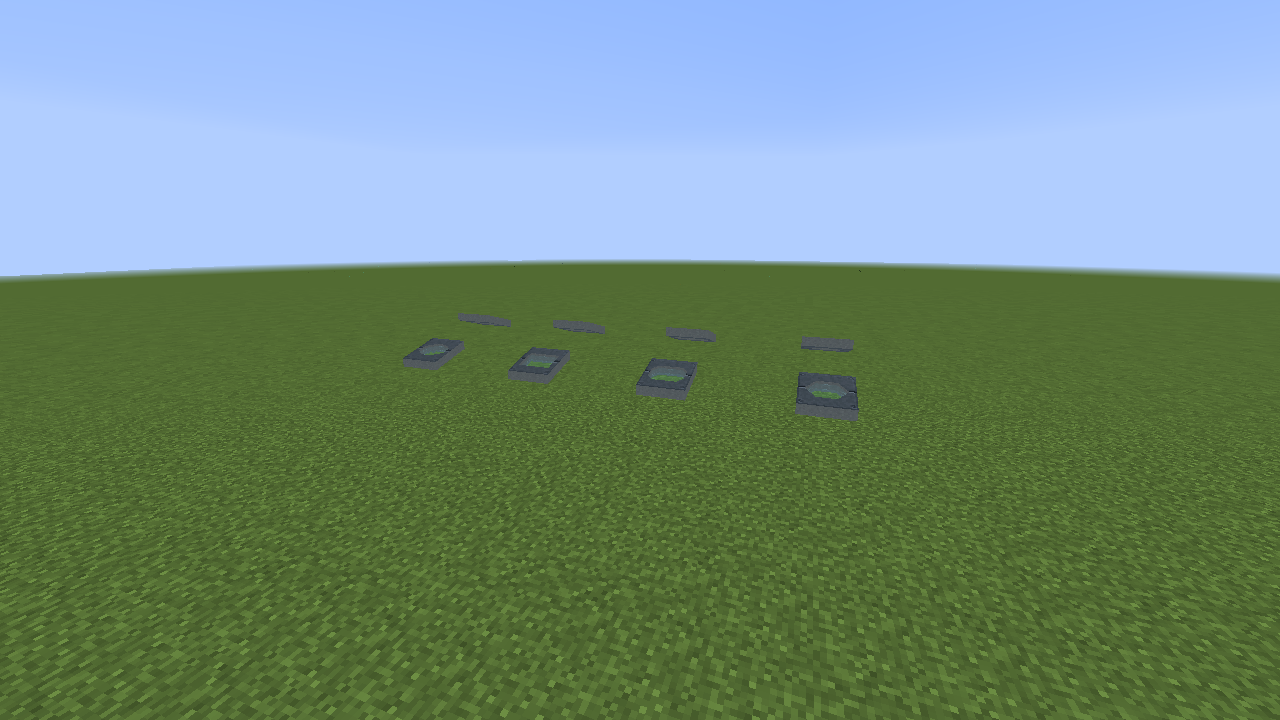
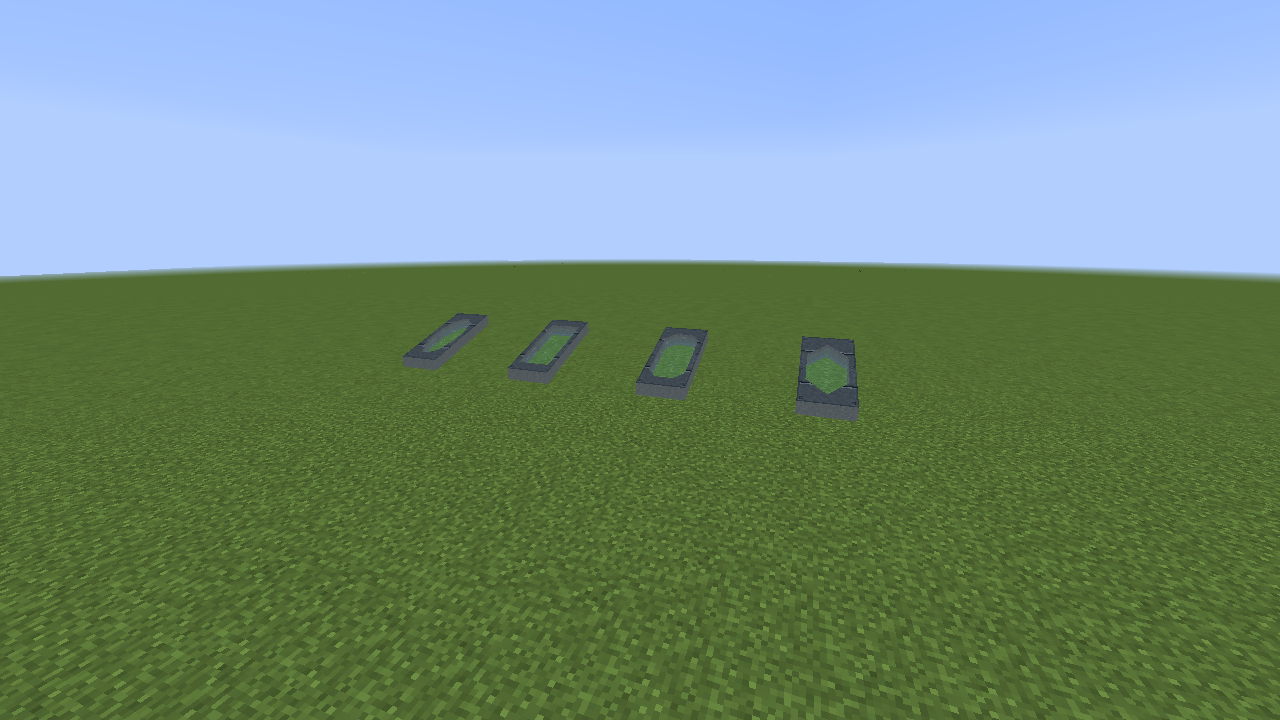
Document edge placement and illustrate shallow porthole joining

diff --git a/testclient/export_gallery.py b/testclient/export_gallery.py
@@ -79,7 +79,7 @@ SHOTS.update({
 
 for name in ("faces", "seating", "seating_heights", "seating_unjoined", "gear", "gear_extended", "gear_four", "gear_half", "gear_retracted", "portholes",
              "half_height", "fill", "half_console", "controller", "stairs",
-             "portholes_stacked", "portholes_half_height", "filled_corners_inside", "filled_corners_outside"):
+             "portholes_stacked", "portholes_half_height", "portholes_half_height_unjoined", "filled_corners_inside", "filled_corners_outside"):
     SHOTS[f"gallery_v12_{name}"] = f"v1.2/{name.replace('_', '-')}.png"
 SHOTS["connected_seat_hotbar"] = "v1.2/seat-and-gear-icons.png"
 SHOTS["connected_seat_gui"] = "v1.2/connected-seat-config.png"

diff --git a/docs/gallery/version-1.2.md b/docs/gallery/version-1.2.md
@@ -31,8 +31,23 @@ The tool is retained.
 **Programmable Diagonal Porthole** offers hexagonal, square, octagonal and round
 openings, half/full width, half-height/full-width geometry, glass shade and joining. Matching neighbors join along the same plane. A half-width lower piece can
 join a reversed, inverted upper piece directly above it, producing one tall
-opening. Use the same opening shape and enable joining on both. Other
-arrangements only join when their actual surfaces align.
+opening. Half-height/full-width pieces can likewise join end-to-end into one
+shallow diagonal opening. Use the same opening shape and enable joining on both.
+Other arrangements only join when their actual surfaces align.
+
+For both diagonal walls and portholes, click near the desired edge: tall pieces
+use the horizontal edge, and shallow pieces use the upper/lower edge of a side face. Clicking
+an existing diagonal to extend it chooses the matching orientation automatically.
+Plain items inherit that diagonal's proportions; items with saved settings retain
+their own proportions and textures.
+
+The shallow form uses the tall form's geometry rotated sideways: four-pixel
+thickness, with lower/upper height bands of 0–10 and 6–16 pixels. This overlap
+lets the slope endpoints meet. Existing shallow pieces adopt these corrected
+bounds.
+
+![Half-height portholes joined along the slope](../images/gallery/v1.2/portholes-half-height.png)
+![The same shallow pieces with joining disabled](../images/gallery/v1.2/portholes-half-height-unjoined.png)
 
 ![Four diagonal porthole shapes, joined sideways](../images/gallery/v1.2/portholes.png)
 
@@ -148,7 +163,6 @@ stored face overrides. Survival placement consumes one additional slab.
 ### More diagonal porthole shapes
 
 ![Four tall joined diagonal portholes](../images/gallery/v1.2/portholes-stacked.png)
-![Lower and upper half-height diagonal portholes](../images/gallery/v1.2/portholes-half-height.png)
 
 Inside/outside fill now retains the diagonal corner's connecting arm and stays
 within the corner span. A filled wall can still connect to an unfilled neighbor.
